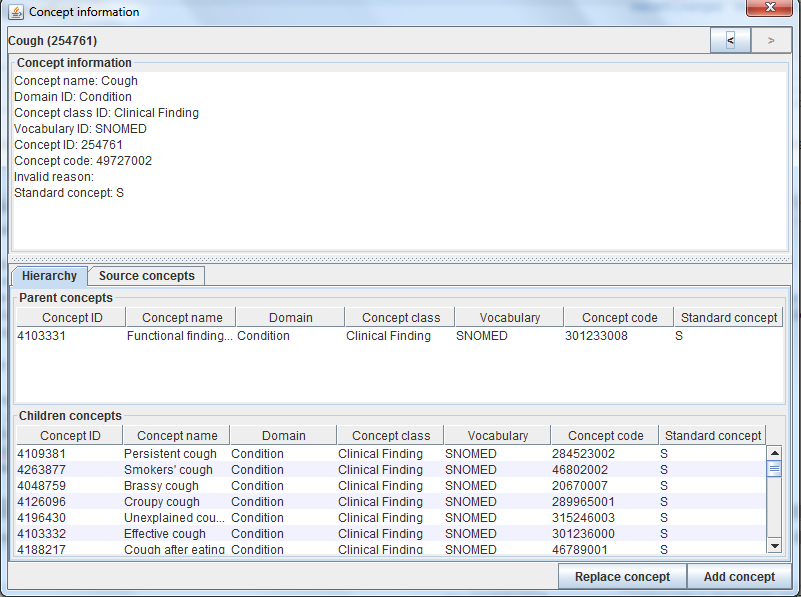
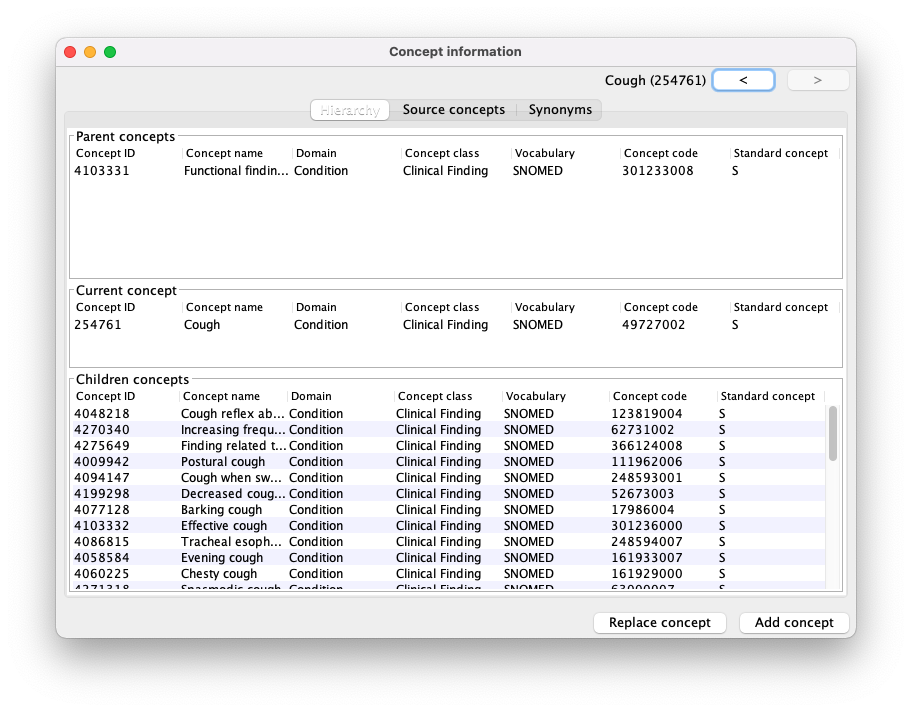
clean up docs, update concept info, add equivalence documentation. fixes #114

diff --git a/docs/usage.html b/docs/usage.html
@@ -11,7 +11,7 @@
 
 
 
-<title>Usage</title>
+<title>Usagi - Usage</title>
 
 <script src="site_libs/header-attrs-2.5/header-attrs.js"></script>
 <script src="site_libs/jquery-1.11.3/jquery.min.js"></script>
@@ -378,7 +378,7 @@ div.tocify {
   <a href="usage.html">
     <span class="glyphicon glyphicon-list"></span>
      
-    Using Usagi
+    Using the Application Functions
   </a>
 </li>
       </ul>
@@ -409,12 +409,11 @@ div.tocify {
 </div>
 
 
-<p><img src="images/usagi_logo.png" /></p>
 <div id="importing-source-codes-into-usagi" class="section level1">
 <h1>Importing Source Codes into Usagi</h1>
 <p>Export source codes from source system into a CSV or Excel (.xlsx) file. This should at least have columns containing the <strong>source code</strong> and an English <strong>source code description</strong>, however additional information about codes can be brought over as well (e.g. dose unit, or the description in the original language if translated). In addition to information about the source codes, the <strong>frequency of the code</strong> should preferably also be brought over, since this can help prioritize which codes should receive the most effort in mapping (e.g. you can have 1,000 source codes but only 100 are truly used within the system). If any source code information needs translating to English, use Google Translate to do that.</p>
 <p>Note: source code extracts should be broken out by domain (i.e. drugs, procedures, conditions, observations) and not lumped into one large file.</p>
-<p>Source codes are loaded into Usagi from the File –&gt; Import codes menu. From here an “Import codes …” will display as seen in Figure 1.</p>
+<p>Source codes are loaded into Usagi from the <em>File –&gt; Import codes</em> menu. From here an “Import codes …” will display as seen in Figure 1.</p>
 <p><img src="images/usagiimport.png" /> <strong>Figure 1: Usagi Source Code Input Screen</strong></p>
 <p>In Figure 1, the source code terms were in Dutch and were also translated into English. Usagi will leverage the English translations to map to the standard vocabulary.</p>
 <p><img src="images/usagiimport2.png" /> <strong>Figure 2: Telling Usagi how to Read Input File</strong></p>
@@ -438,7 +437,21 @@ div.tocify {
 <h1>Approving a Suggested Mapping</h1>
 <p>The Overview Table shows the current mapping of source codes to concepts. Right after importing source codes, this mapping contains the automatically generated suggested mappings based on term similarity and any search options. In the example in Figure 4, the English names of Dutch condition codes were mapped to standard concepts in the Condition domain, because the user restricted the search to that domain. Usagi compared the source code descriptions to concept names and synonyms to find the best match. Because the user had selected ‘Include source terms’ Usagi also considered the names and synonyms of all source concepts in the vocabulary that map to a particular concept.If Usagi is unable to make a mapping, it will map to the CONCEPT_ID = 0.</p>
 <p><img src="images/usagiscreen2.png" /> <strong>Figure 5: Reviewing an Usagi Match</strong></p>
-<p>It is suggested that someone with experience with coding systems help map source codes to their associated standard vocabulary. That individual will work through code by code in the Overview Table to either accept the mapping Usagi has suggested or choose a new mapping. For example in Figure 5 we see that the Dutch term “Hoesten” which was translated to the English term “Cough”. Usagi used “Cough” and mapped it to the OMOP Vocabulary concept of “4158493-C/O - cough”. There was a matching score of 0.58 associated to this matched pair (matching scores are typically 0 to 1 with 1 being a confident match), a score of 0.58 signifies that Usagi is not very sure of how well it has mapped this Dutch code to SNOMED. Let us say in this case, we are okay with this mapping, we can approve it by hitting the green “Approve” button in the bottom right hand portion of the screen.</p>
+<p>It is suggested that someone with experience with coding systems help map source codes to their associated standard vocabulary. That individual will work through code by code in the Overview Table to either accept the mapping Usagi has suggested or choose a new mapping. For example in Figure 5 we see that the Dutch term “Hoesten” which was translated to the English term “Cough”. Usagi used “Cough” and mapped it to the OMOP Vocabulary concept of “4158493-C/O - cough”. There was a matching score of 0.58 associated to this matched pair (matching scores are typically 0 to 1 with 1 being a confident match), a score of 0.58 signifies that Usagi is not very sure of how well it has mapped this Dutch code to SNOMED. Let us say in this case, we are okay with this mapping, we can approve it by hitting the green “Approve” button in the bottom right-hand portion of the screen.</p>
+<div id="equivalence" class="section level2">
+<h2>Equivalence</h2>
+<p>In Usagi 1.4+, we can assign an equivalence status when approving. This allows the reviewer to capture how well the target concept(s) capture the meaning of the source term.</p>
+<p><img src="images/equivalences.png" /></p>
+<p>The equivalence definitions are based on the <a href="https://www.hl7.org/fhir/codesystem-concept-map-equivalence.html">the HL7 concept map equivalence</a>:</p>
+<ul>
+<li><strong>Equal</strong> = The concepts are exactly the same (i.e. intentionally identical).</li>
+<li><strong>Equivalent</strong> = The concepts mean the same thing (i.e. extensionally identical).</li>
+<li><strong>Wider</strong> = The target contains more information than to the source.</li>
+<li><strong>Narrower</strong> = The target contains less information than the source.</li>
+<li><strong>Inexact</strong> = The target overlaps with the source, but both source and target cover additional meaning.</li>
+<li><strong>Unmatched</strong> = There is no match for this concept in the target code system.</li>
+</ul>
+</div>
 </div>
 <div id="searching-for-a-new-mapping" class="section level1">
 <h1>Searching for a New Mapping</h1>
@@ -450,9 +463,10 @@ div.tocify {
 </div>
 <div id="concept-information" class="section level1">
 <h1>Concept information</h1>
-<p>When looking for appropriate concepts to map to, it is important to consider the ‘social life’ of a concept. The meaning of a concept might depend partially on its place in the hierarchy, and sometimes there are ‘orphan concepts’ in the vocabulary with few or no hierarchical relationships, which would be ill-suited as target concepts. Usagi will often report the number of parents and children a concept has, and it also possible to show more information by pressing ALT + C, or selecting <em>view</em> –&gt; <em>Concept information</em> in the top menu bar.</p>
+<p>When looking for appropriate concepts to map to, it is important to consider the ‘social life’ of a concept. The meaning of a concept might depend partially on its place in the hierarchy, and sometimes there are ‘orphan concepts’ in the vocabulary with few or no hierarchical relationships, which would be ill-suited as target concepts. Usagi will often report the number of parents and children a concept has, and it also possible to show more information by pressing <em>ALT + C</em>, or selecting <em>VIEW</em> –&gt; <em>Concept information</em> in the top menu bar.</p>
 <p><img src="images/conceptinformation.png" /> <strong>Figure 7: Concept information panel</strong></p>
-<p>Figure 7 shows the concept information panel. It shows general information about a concept, as well as its parents, children, and other source codes that map to the concept. Users can use this panel to navigate the hierarchy and potentially choose a different target concept.</p>
+<p>It shows general information about a concept, as well as its parents, children, synonyms and other source codes that map to the concept. Users can use this panel to navigate the hierarchy and potentially choose a different target concept.</p>
+<p>In addition, Usagi allows to directly open <a href="https://athena.ohdsi.org/">Athena</a> in your default browser for the selected concept. When a concept is selected, press <em>ALT + W</em> or click on <em>View-&gt; Athena (web)</em>. Similarly, we can search google for a source code description with <em>ALT + G</em> or <em>View –&gt; Google (web)</em>.</p>
 </div>
 <div id="auto-mapped" class="section level1">
 <h1>Auto Mapped</h1>
@@ -482,6 +496,7 @@ div.tocify {
 <li>Choose <em>File</em> –&gt; <em>Apply previous mapping</em>, and select the old Usagi mapping file. Note that the format of the previous mapping should be as created by <em>Save</em> or <em>Save As</em>. Other formats do not work.</li>
 <li>Identify codes that haven’t inherited approved mappings from the old mapping, and map them as usual.</li>
 </ol>
+<p>Note: the additional info columns of the applied mapping are ignored. These are <strong>not merged</strong> with the additional information in the already opened mapping.</p>
 <p>When the vocabulary is updated, follow these steps:</p>
 <ol style="list-style-type: decimal">
 <li>Download the new vocabulary files from Athena</li>

diff --git a/docs/installation.html b/docs/installation.html
@@ -11,7 +11,7 @@
 
 
 
-<title>Installation &amp; Setup</title>
+<title>Usagi - Installation &amp; Setup</title>
 
 <script src="site_libs/header-attrs-2.5/header-attrs.js"></script>
 <script src="site_libs/jquery-1.11.3/jquery.min.js"></script>
@@ -378,7 +378,7 @@ div.tocify {
   <a href="usage.html">
     <span class="glyphicon glyphicon-list"></span>
      
-    Using Usagi
+    Using the Application Functions
   </a>
 </li>
       </ul>
@@ -410,15 +410,35 @@ div.tocify {
 
 
 <p><img src="images/usagi_logo.png" /></p>
-<div id="installation-and-support" class="section level1">
-<h1>Installation and support</h1>
-<p>All source code and installation instructions are available on Usagi’s GitHub site: <a href="https://github.com/OHDSI/Usagi" class="uri">https://github.com/OHDSI/Usagi</a></p>
-<p>Any bugs/issues/enhancements should be posted to the GitHub repository: <a href="https://github.com/OHDSI/Usagi/issues" class="uri">https://github.com/OHDSI/Usagi/issues</a></p>
-<p>Any questions/comments/feedback/discussion can be posted on the OHDSI Developer Forum: <a href="http://forums.ohdsi.org/c/developers" class="uri">http://forums.ohdsi.org/c/developers</a></p>
+<div id="installation" class="section level1">
+<h1>Installation</h1>
+<p>Usagi is a stand-alone java application, which requires Java 1.8 or higher to be installed. Java can be downloaded from <a href="http://www.java.com" target="_blank">java.com</a>.</p>
+<p>To get the latest Usagi build, download “Usagi_vx.x.x.jar” under the <a href="https://github.com/OHDSI/Usagi/releases/latest" target="_blank">Releases</a> tab.</p>
+<p>After downloading, Usagi can be started simply by double clicking the jar file. Alternatively, Usagi can be opened from the commandline: <code>java -jar Usagi_vx.x.x.jar</code>.</p>
 </div>
 <div id="one-time-setup" class="section level1">
-<h1>One-time setup</h1>
-<p><em>TBD</em></p>
+<h1>One-time Setup</h1>
+<p>The first time you start Usagi, you will be prompted to index the vocabularies. Usagi does not come with the indexes, you have to provide the vocabulary files. To do so, follow the folllowing steps:</p>
+<ol style="list-style-type: decimal">
+<li>Get the latest version of the vocabulary from <a href="http://athena.ohdsi.org">Athena</a>. An account is required. You can select any vocabularies that you need.</li>
+<li>When your vocabulary package is ready, download it and unzip the package.</li>
+<li>Open Usagi as described above.</li>
+<li>When prompted, specify the location of the downloaded vocabulary files to create the index.<br />
+The creation of the vocabulary index is a computationally expensive process and can take hours to complete.</li>
+<li>When finished, the vocabulary version should be displayed in the bottom right. Statistics of your index can be viewed from <em>Help</em> –&gt; <em>Show index statistics</em></li>
+</ol>
+<p><img src="images/index_stats.png" /></p>
+<p>When switching to a new version of Usagi, the index files can be copied over. Multiple versions of Usagi can even use the same index. The Usagi jar file and the index files just need to be in the same folder.</p>
+<p>In some cases, Usagi will not be able find the vocabulary index or the index creation becomes stuck after a few hours (see <a href="https://github.com/OHDSI/Usagi/issues/64">issue #64</a>). In both cases, opening Usagi from the commandline might help: <code>java -jar Usagi_vx.x.x.jar</code>.</p>
+</div>
+<div id="support" class="section level1">
+<h1>Support</h1>
+<p>All source code and installation instructions are available on Usagi’s GitHub site:<br />
+<a href="https://github.com/OHDSI/Usagi" class="uri">https://github.com/OHDSI/Usagi</a></p>
+<p>Any bugs/issues/enhancements should be posted to the GitHub repository:<br />
+<a href="https://github.com/OHDSI/Usagi/issues" class="uri">https://github.com/OHDSI/Usagi/issues</a></p>
+<p>Any questions/comments/feedback/discussion can be posted on the OHDSI Developer Forum:<br />
+<a href="http://forums.ohdsi.org/c/developers" class="uri">http://forums.ohdsi.org/c/developers</a></p>
 </div>
 
 

diff --git a/docs/index.html b/docs/index.html
@@ -302,7 +302,7 @@ $(document).ready(function () {
   <a href="usage.html">
     <span class="glyphicon glyphicon-list"></span>
      
-    Using Usagi
+    Using the Application Functions
   </a>
 </li>
       </ul>
@@ -335,10 +335,10 @@ $(document).ready(function () {
 <p><img src="images/usagi_logo.png" /></p>
 <div id="introduction" class="section level1">
 <h1>Introduction</h1>
-<p>Usagi is a software tool created by the Observational Health Data Sciences and Informatics (OHDSI) team and is used to help in the process of mapping codes from a source system into the standard terminologies stored in the Observational Medical Outcomes Partnership (OMOP) Vocabulary (<a href="http://www.ohdsi.org/data-standardization/vocabulary-resources/" class="uri">http://www.ohdsi.org/data-standardization/vocabulary-resources/</a>). The word Usagi is Japanese for rabbit and was named after the first mapping exercise it was used for; mapping source codes used in a Japanese dataset into OMOP Vocabulary concepts.</p>
+<p>Usagi is a software tool created by the Observational Health Data Sciences and Informatics (OHDSI) team and is used to help in the process of mapping codes from a source system into the standard terminologies stored in <a href="http://www.ohdsi.org/data-standardization/vocabulary-resources/">the Observational Medical Outcomes Partnership (OMOP) Vocabulary</a>. The word Usagi is Japanese for rabbit and was named after the first mapping exercise it was used for; mapping source codes used in a Japanese dataset into OMOP Vocabulary concepts.</p>
 <p>Mapping source codes into the OMOP Vocabulary is valuable for two main reasons:</p>
 <ol style="list-style-type: decimal">
-<li>When converting a raw dataset into the OMOP Common Data Model (CDM) (<a href="http://www.ohdsi.org/data-standardization/the-common-data-model/" class="uri">http://www.ohdsi.org/data-standardization/the-common-data-model/</a>), translating source specific codes into standard concepts (i.e. RxNorm or SNOMED) translates the source data into a “common language” other CDMs follow.</li>
+<li>When converting a raw dataset into <a href="http://www.ohdsi.org/data-standardization/the-common-data-model/">the OMOP Common Data Model (CDM)</a>, translating source specific codes into standard concepts (i.e. RxNorm or SNOMED) translates the source data into a “common language” other CDMs follow.</li>
 <li>Having source codes tied into the OMOP Vocabulary concepts allow a researcher to leverage the power of finding relevant source codes leveraging classification terminologies in the OMOP Vocabulary (e.g. find all antipsychotic medications or find all condition codes related to heart failure).</li>
 </ol>
 </div>

diff --git a/docs/ReadMe.html b/docs/ReadMe.html
@@ -302,7 +302,7 @@ $(document).ready(function () {
   <a href="usage.html">
     <span class="glyphicon glyphicon-list"></span>
      
-    Using Usagi
+    Using the Application Functions
   </a>
 </li>
       </ul>
@@ -337,11 +337,11 @@ $(document).ready(function () {
 <h2>Contribute</h2>
 <p>Contributions to this documentation are very welcome and even a must when new features are implemented. To update the documentation, edit one of the following markdown files or create a new markdown file:</p>
 <ul>
-<li><a href="https://github.com/ohdsi/usagi/blob/master/docs/index.md">index.md</a></li>
-<li><a href="https://github.com/ohdsi/usagi/blob/master/docs/usage.md">usage.md</a></li>
-<li><a href="https://github.com/ohdsi/usagi/blob/master/docs/installation.md">installation.md</a></li>
+<li><a href="https://github.com/ohdsi/usagi/blob/master/docs/index.md" target="_blank">index.md</a></li>
+<li><a href="https://github.com/ohdsi/usagi/blob/master/docs/usage.md" target="_blank">usage.md</a></li>
+<li><a href="https://github.com/ohdsi/usagi/blob/master/docs/installation.md" target="_blank">installation.md</a></li>
 </ul>
-<p>The configuration of the page can be found in <a href="https://github.com/ohdsi/usagi/blob/master/docs/_site.yml">_site.yml</a>.</p>
+<p>The configuration of the page can be found in <a href="https://github.com/ohdsi/usagi/blob/master/docs/_site.yml" target="_blank">_site.yml</a>.</p>
 </div>
 <div id="render-html" class="section level2">
 <h2>Render html</h2>

diff --git a/docs/usage.md b/docs/usage.md
@@ -1,17 +1,20 @@
 ---
-pagetitle: Usage
+pagetitle: Usagi - Usage
 title: Using the Application Functions
 ---
 
-![](images/usagi_logo.png)
-
 # Importing Source Codes into Usagi
 
-Export source codes from source system into a CSV or Excel (.xlsx) file.  This should at least have columns containing the **source code** and an English **source code description**, however additional information about codes can be brought over as well (e.g. dose unit, or the description in the original language if translated). In addition to information about the source codes, the **frequency of the code** should preferably also be brought over, since this can help prioritize which codes should receive the most effort in mapping (e.g. you can have 1,000 source codes but only 100 are truly used within the system).  If any source code information needs translating to English, use Google Translate to do that.
+Export source codes from source system into a CSV or Excel (.xlsx) file.
+This should at least have columns containing the **source code** and an English **source code description**, 
+however additional information about codes can be brought over as well (e.g. dose unit, or the description in the original language if translated). 
+In addition to information about the source codes, the **frequency of the code** should preferably also be brought over, 
+since this can help prioritize which codes should receive the most effort in mapping (e.g. you can have 1,000 source codes but only 100 are truly used within the system).
+If any source code information needs translating to English, use Google Translate to do that.
 
 Note: source code extracts should be broken out by domain (i.e. drugs, procedures, conditions, observations) and not lumped into one large file.
 
-Source codes are loaded into Usagi from the File --> Import codes menu.  From here an “Import codes ...” will display as seen in Figure 1.
+Source codes are loaded into Usagi from the _File --> Import codes_ menu.  From here an “Import codes ...” will display as seen in Figure 1.
 
 ![](images/usagiimport.png)
 **Figure 1:  Usagi Source Code Input Screen**
@@ -50,12 +53,37 @@ Note that in any of the tables, you can right-click to select the columns that a
 
 # Approving a Suggested Mapping
 
-The Overview Table shows the current mapping of source codes to concepts. Right after importing source codes, this mapping contains the automatically generated suggested mappings based on term similarity and any search options. In the example in Figure 4, the English names of Dutch condition codes were mapped to standard concepts in the Condition domain, because the user restricted the search to that domain. Usagi compared the source code descriptions to concept names and synonyms to find the best match. Because the user had selected 'Include source terms' Usagi also considered the names and synonyms of all source concepts in the vocabulary that map to a particular concept.If Usagi is unable to make a mapping, it will map to the CONCEPT_ID = 0.
+The Overview Table shows the current mapping of source codes to concepts.
+Right after importing source codes, this mapping contains the automatically generated suggested mappings based on term similarity and any search options.
+In the example in Figure 4, the English names of Dutch condition codes were mapped to standard concepts in the Condition domain, because the user restricted the search to that domain.
+Usagi compared the source code descriptions to concept names and synonyms to find the best match.
+Because the user had selected 'Include source terms' Usagi also considered the names and synonyms of all source concepts in the vocabulary that map to a particular concept.If Usagi is unable to make a mapping, it will map to the CONCEPT_ID = 0.
 
 ![](images/usagiscreen2.png)
 **Figure 5:  Reviewing an Usagi Match**
 
-It is suggested that someone with experience with coding systems help map source codes to their associated standard vocabulary.  That individual will work through code by code in the Overview Table to either accept the mapping Usagi has suggested or choose a new mapping.  For example in Figure 5 we see that the Dutch term “Hoesten” which was translated to the English term “Cough”.  Usagi used “Cough” and mapped it to the OMOP Vocabulary concept of “4158493-C/O - cough”.  There was a matching score of 0.58 associated to this matched pair (matching scores are typically 0 to 1 with 1 being a confident match), a score of 0.58 signifies that Usagi is not very sure of how well it has mapped this Dutch code to SNOMED.  Let us say in this case, we are okay with this mapping, we can approve it by hitting the green “Approve” button in the bottom right hand portion of the screen.
+It is suggested that someone with experience with coding systems help map source codes to their associated standard vocabulary.
+That individual will work through code by code in the Overview Table to either accept the mapping Usagi has suggested or choose a new mapping.
+For example in Figure 5 we see that the Dutch term “Hoesten” which was translated to the English term “Cough”.
+Usagi used “Cough” and mapped it to the OMOP Vocabulary concept of “4158493-C/O - cough”.
+There was a matching score of 0.58 associated to this matched pair (matching scores are typically 0 to 1 with 1 being a confident match), 
+a score of 0.58 signifies that Usagi is not very sure of how well it has mapped this Dutch code to SNOMED.
+Let us say in this case, we are okay with this mapping, we can approve it by hitting the green “Approve” button in the bottom right-hand portion of the screen.
+
+## Equivalence
+In Usagi 1.4+, we can assign an equivalence status when approving.
+This allows the reviewer to capture how well the target concept(s) capture the meaning of the source term.
+
+![](images/equivalences.png)
+
+The equivalence definitions are based on the [the HL7 concept map equivalence](https://www.hl7.org/fhir/codesystem-concept-map-equivalence.html):
+
+- **Equal** = The concepts are exactly the same (i.e. intentionally identical).
+- **Equivalent** = The concepts mean the same thing (i.e. extensionally identical).
+- **Wider** = The target contains more information than to the source.
+- **Narrower** = The target contains less information than the source.
+- **Inexact** = The target overlaps with the source, but both source and target cover additional meaning.
+- **Unmatched** = There is no match for this concept in the target code system.
 
 # Searching for a New Mapping
 
@@ -72,12 +100,19 @@ When we apply these search criteria we find “254761-Cough” and feel this may
 
 # Concept information
 
-When looking for appropriate concepts to map to, it is important to consider the 'social life' of a concept. The meaning of a concept might depend partially on its place in the hierarchy, and sometimes there are 'orphan concepts' in the vocabulary with few or no hierarchical relationships, which would be ill-suited as target concepts. Usagi will often report the number of parents and children a concept has, and it also possible to show more information by pressing ALT + C, or selecting _view_ --> _Concept information_ in the top menu bar.
+When looking for appropriate concepts to map to, it is important to consider the 'social life' of a concept. 
+The meaning of a concept might depend partially on its place in the hierarchy, and sometimes there are 'orphan concepts' in the vocabulary with few or no hierarchical relationships, which would be ill-suited as target concepts. 
+Usagi will often report the number of parents and children a concept has, and it also possible to show more information by pressing _ALT + C_, or selecting _VIEW_ --> _Concept information_ in the top menu bar.
 
 ![](images/conceptinformation.png)
 **Figure 7:  Concept information panel**
 
-Figure 7 shows the concept information panel. It shows general information about a concept, as well as its parents, children, and other source codes that map to the concept. Users can use this panel to navigate the hierarchy and potentially choose a different target concept.
+It shows general information about a concept, as well as its parents, children, synonyms and other source codes that map to the concept. 
+Users can use this panel to navigate the hierarchy and potentially choose a different target concept.
+
+In addition, Usagi allows to directly open [Athena](https://athena.ohdsi.org/) in your default browser for the selected concept.
+When a concept is selected, press _ALT + W_ or click on _View-> Athena (web)_.
+Similarly, we can search google for a source code description with _ALT + G_ or _View --> Google (web)_.
 
 # Auto Mapped
 
@@ -104,13 +139,18 @@ After selecting the SOURCE_VOCABULARY_ID, you give your export CSV a name and sa
 
 # Updating an Usagi mapping
 
-Often a mapping is not a one-time effort. As data is updated perhaps new source codes are added, and also the vocabulary is updated regularly, perhaps requiring an update of the mapping.
+Often a mapping is not a one-time effort. 
+As data is updated perhaps new source codes are added, and also the vocabulary is updated regularly, perhaps requiring an update of the mapping.
 
 When the set of source codes is updated the following steps can be followed to support the update:
 
 1. Import the new source code file
-1. Choose _File_ --> _Apply previous mapping_, and select the old Usagi mapping file. Note that the format of the previous mapping should be as created by _Save_ or _Save As_. Other formats do not work.
+1. Choose _File_ --> _Apply previous mapping_, and select the old Usagi mapping file.
+   Note that the format of the previous mapping should be as created by _Save_ or _Save As_. Other formats do not work.
 1. Identify codes that haven't inherited approved mappings from the old mapping, and map them as usual.
+
+Note: the additional info columns of the applied mapping are ignored.
+These are **not merged** with the additional information in the already opened mapping.
 
 When the vocabulary is updated, follow these steps:
 

diff --git a/docs/installation.md b/docs/installation.md
@@ -1,19 +1,50 @@
 ---
-pagetitle: "Installation & Setup"
+pagetitle: Usagi - Installation & Setup
 title: "Installation & Setup"
 ---
 
 ![](images/usagi_logo.png)
 
-# Installation and support
+# Installation
+Usagi is a stand-alone java application, which requires Java 1.8 or higher to be installed.
+Java can be downloaded from <a href="http://www.java.com" target="_blank">java.com</a>.
 
-All source code and installation instructions are available on Usagi’s GitHub site:
+To get the latest Usagi build, download "Usagi_vx.x.x.jar" under the <a href="https://github.com/OHDSI/Usagi/releases/latest" target="_blank">Releases</a> tab.
+
+After downloading, Usagi can be started simply by double clicking the jar file.
+Alternatively, Usagi can be opened from the commandline: `java -jar Usagi_vx.x.x.jar`.
+
+# One-time Setup
+
+The first time you start Usagi, you will be prompted to index the vocabularies.
+Usagi does not come with the indexes, you have to provide the vocabulary files.
+To do so, follow the folllowing steps:
+
+1. Get the latest version of the vocabulary from [Athena](http://athena.ohdsi.org). An account is required. You can select any vocabularies that you need.
+2. When your vocabulary package is ready, download it and unzip the package.
+2. Open Usagi as described above.
+2. When prompted, specify the location of the downloaded vocabulary files to create the index. \
+   The creation of the vocabulary index is a computationally expensive process and can take hours to complete.
+3. When finished, the vocabulary version should be displayed in the bottom right. 
+   Statistics of your index can be viewed from _Help_ --> _Show index statistics_ 
+
+![](images/index_stats.png)
+
+When switching to a new version of Usagi, the index files can be copied over.
+Multiple versions of Usagi can even use the same index.
+The Usagi jar file and the index files just need to be in the same folder.
+
+In some cases, Usagi will not be able find the vocabulary index or
+the index creation becomes stuck after a few hours (see [issue #64](https://github.com/OHDSI/Usagi/issues/64)).
+In both cases, opening Usagi from the commandline might help: `java -jar Usagi_vx.x.x.jar`.
+
+# Support
+
+All source code and installation instructions are available on Usagi’s GitHub site: \
 https://github.com/OHDSI/Usagi
 
-Any bugs/issues/enhancements should be posted to the GitHub repository:
+Any bugs/issues/enhancements should be posted to the GitHub repository: \
 https://github.com/OHDSI/Usagi/issues
 
-Any questions/comments/feedback/discussion can be posted on the OHDSI Developer Forum: http://forums.ohdsi.org/c/developers
-
-# One-time setup
-_TBD_
+Any questions/comments/feedback/discussion can be posted on the OHDSI Developer Forum: \
+http://forums.ohdsi.org/c/developers

diff --git a/docs/readme.md b/docs/readme.md
@@ -10,11 +10,11 @@ output:
 Contributions to this documentation are very welcome and even a must when new features are implemented.
 To update the documentation, edit one of the following markdown files or create a new markdown file:
 
- - [index.md](https://github.com/ohdsi/usagi/blob/master/docs/index.md)
- - [usage.md](https://github.com/ohdsi/usagi/blob/master/docs/usage.md)
- - [installation.md](https://github.com/ohdsi/usagi/blob/master/docs/installation.md)
+ - <a href="https://github.com/ohdsi/usagi/blob/master/docs/index.md" target="_blank">index.md</a>
+ - <a href="https://github.com/ohdsi/usagi/blob/master/docs/usage.md" target="_blank">usage.md</a>
+ - <a href="https://github.com/ohdsi/usagi/blob/master/docs/installation.md" target="_blank">installation.md</a>
  
-The configuration of the page can be found in [_site.yml](https://github.com/ohdsi/usagi/blob/master/docs/_site.yml). 
+The configuration of the page can be found in <a href="https://github.com/ohdsi/usagi/blob/master/docs/_site.yml" target="_blank">_site.yml</a>. 
 
 ## Render html
 To generate the site from markdown files, run the following R script with the `./docs` folder as working directory.
